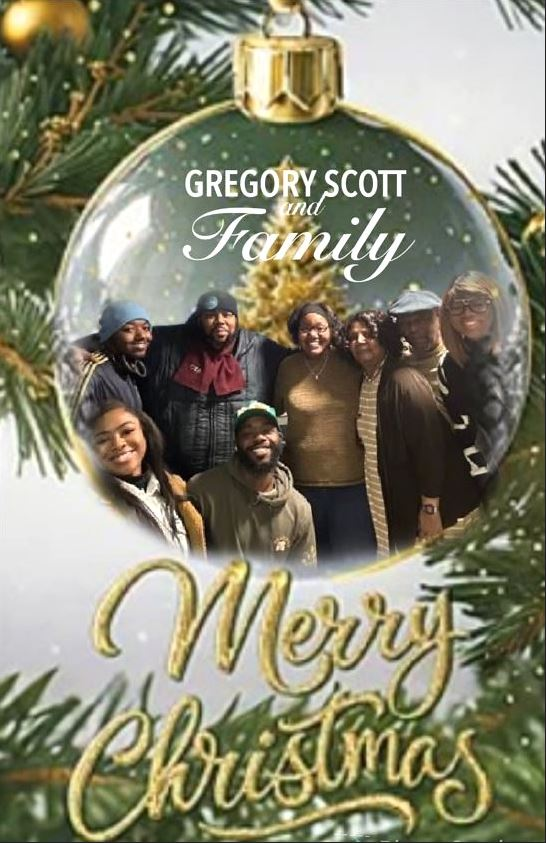
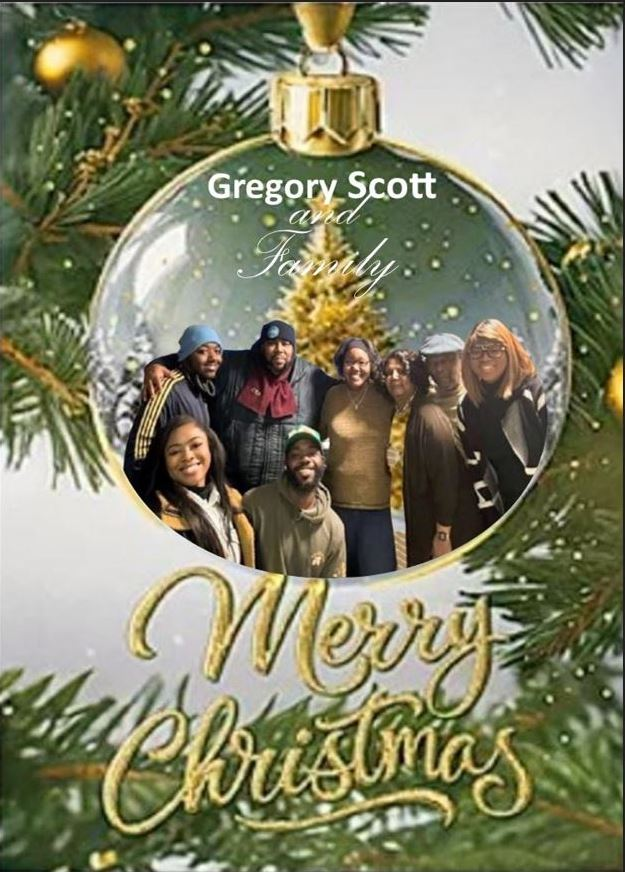
Modified and normalized images . . .

diff --git a/js/build_tribute.js b/js/build_tribute.js
@@ -24,12 +24,12 @@ let tributeData =
                             {   color: 0,
 
                                 page_1_title_1: "<span id='page-1-title-1-text'><strong><i>2025</i></strong></span>",
-                                
+                               
                                 page_1_title_2: "<span id='page-1-title-2-text'><strong><i>Merry Christmas</i></strong></span>",
 
-                                page_1_image: "images/2025-christmas-photo-3.jpg",
+                                page_1_image: "images/2025-christmas-photo-1.jpg",
 
-                                page_1_caption: "<span id='page-1-figcaption-text'><strong><i>From All of Us to You!</i></strong></span>",
+                                page_1_caption: "<span id='page-1-figcaption-text'><strong><i>Enjoy God's Gifts . . .</i></strong></span>",
 
                                 page_2_title_1: "<span id='page-2-title-1-text'><strong><i>2026</i></strong></span>",
                                 
@@ -42,11 +42,11 @@ let tributeData =
                                 page_3_title_1: "<span class='christmas-accent-color'><strong><i>Merry Christmas</i></strong></span>",
                                 
                                 page_3_title_2: "<span class='newyear-accent-color'><strong><i>Happy New Year</i></strong></span>",                           
-                                page_3_content: "<br><p><span><strong><i>As the song says . . .</i></strong></span>&nbsp;It's the most wonderful time of the year! &nbsp;With children jingle belling and everyone telling you, be of good cheer<strong>!</strong> &nbsp;Your mother <strong>Christine</strong> and me wish everyone in our family Merry Christmas, and that each of you be of good cheer. &nbsp;We also pray each of you have <strong><i>Peace</i></strong> on earth and <strong><i>goodwill</i></strong>.</p><p><strong><i>What are God's gifts to you?</i></strong> &nbsp;[<i>Galatians 5:22-23</i></span>] - But the fruits of the Spirit is love, joy, peace, longsuffering, gentleness, goodness, faith,  meekness, temperance: against such there is no law. &nbsp;We should all accept these gifts and practice them daily.</p>",
+                                page_3_content: "<p><span><strong><i>As the song says . . .</i></strong></span>&nbsp;It's the most wonderful time of the year! &nbsp;With children jingle belling and everyone telling you, be of good cheer<strong>!</strong> &nbsp;Your mother <strong>Christine</strong> and me wish everyone in our family Merry Christmas, and that each of you be of good cheer. &nbsp;We also pray each of you have <strong><i>Peace</i></strong> on earth and <strong><i>goodwill</i></strong>.</p><p><strong><i>What are God's gifts?</i></strong> &nbsp;[<i>Galatians 5:22-23</i></span>] - But the fruits of the Spirit is love, joy, peace, longsuffering, gentleness, goodness, faith,  meekness, temperance: against such there is no law. &nbsp;We should all accept these gifts and practice them daily.</p>",
 
-                                page_3_content_2: "<br><p>Celebrate safely and responsibly, while bringing in the new year. &nbsp;We pray God bless each of us to be prosperous . . .</p><br><br><br><br><br><br><br><br><br><br><br><br><br><br><br><br><br><br><br><br><br><br><br><p><strong><i>Love</i></strong>,<br><br><strong><i>Mom/Dad</i></strong></p><div id='parent-photo-container'><img id='mom-photo' src='images/g02s07christine.jpg'alt='Mom Photo'><img id='dad-photo' src='images/g02s06gregory.jpg'alt='Dad Photo'></div><div class='logo-container'><ol class='logo-list'><li class='logo-li-item'><a href='' ><img class='logo-image'></a></li><li class='logo-li-item logo-tagline-bot'></li></ol></div>",
+                                page_3_content_2: "<p>Celebrate safely and responsibly, while bringing in the new year. &nbsp;We pray God bless each of us to be prosperous . . .</p><br><br><br><br><br><br><br><br><br><br><br><br><br><br><br><br><br><br><br><br><br><br><br><p><strong><i>Love</i></strong>,<br><br><strong><i>Mom/Dad</i></strong></p><div id='parent-photo-container'><img id='mom-photo' src='images/g02s07christine.jpg'alt='Mom Photo'><img id='dad-photo' src='images/g02s06gregory.jpg'alt='Dad Photo'></div><div class='logo-container'><ol class='logo-list'><li class='logo-li-item'><a href='' ><img class='logo-image'></a></li><li class='logo-li-item logo-tagline-bot'></li></ol></div>",
 
-                                page_4_qr_code: "<br><br><img id='qr-code' src='images/qr-code.png' alt='QR Code Image'><br><br>",
+                                page_4_qr_code: "<p class=dummy-content>lorem ipsum</p><p class=dummy-content>lorem ipsum</p><p class=dummy-content>lorem ipsum</p><p class=dummy-content>lorem ipsum</p><p class=dummy-content>lorem ipsum</p><p class=dummy-content>lorem ipsum</p><p class=dummy-content>lorem ipsum</p><p class=dummy-content>lorem ipsum</p><p class=dummy-content>lorem ipsum</p><p class=dummy-content>lorem ipsum</p><p class=dummy-content>lorem ipsum</p><p class=dummy-content>lorem ipsum</p><p class=dummy-content>lorem ipsum</p><p class=dummy-content>lorem ipsum</p><p class=dummy-content>lorem ipsum</p><img id='qr-code' src='images/qr-code.png' alt='QR Code Image'>",
 
                                 author_salutation: "<div class='author-signature'><p>Created By:</p><img class='author-photo' src='images/g02s06gregory.jpg' alt='Author Photo'><p><i><span class='author'>Gregory Scott Sr.</i></span></p></div>"
                             }

diff --git a/index.html b/index.html
@@ -43,15 +43,15 @@
                     <p class="dummy-content">lorem ipsum</p>
                     <p class="dummy-content">lorem ipsum</p>
                     <p class="dummy-content">lorem ipsum</p>
-                    <p class="dummy-content">lorem ipsum</p>
-                    <figcaption id="page-1-figcaption"></figcaption>
-                    <p class="dummy-content">lorem ipsum</p>
+                    <p class="dummy-content">lorem ipsum</p>                   
                     <p class="dummy-content">lorem ipsum</p>
                     <p class="dummy-content">lorem ipsum</p>
                     <p class="dummy-content">lorem ipsum</p>
                     <p class="dummy-content">lorem ipsum</p>
                     <p class="dummy-content">lorem ipsum</p>
-                    <p class="dummy-content">lorem ipsum</p>  
+                    <p class="dummy-content">lorem ipsum</p>
+                    <p class="dummy-content">lorem ipsum</p>
+                    <figcaption id="page-1-figcaption"></figcaption> 
                 </div>                
             </div>
             

diff --git a/css/build_tribute.css b/css/build_tribute.css
@@ -110,7 +110,7 @@ body {
     max-width: 600px;
     text-overflow:      ellipsis;
     overflow:           hidden;
-    background-image:   url("../images/2025-christmas-photo-2.jpg");
+    background-image:   url("../images/2025-christmas-photo-1.jpg");
     background-size:    cover; 
     background-repeat:  round;
     padding: 10px;
@@ -392,7 +392,7 @@ footer {
     text-shadow: 5px 5px 5px #000000;
     background: #cc0000;
     color: #ffffff;
-    font-size: 1em;
+    font-size: 1.25em;
     font-style: italic;
     margin-top: 5px;
     padding-left: 5px;
